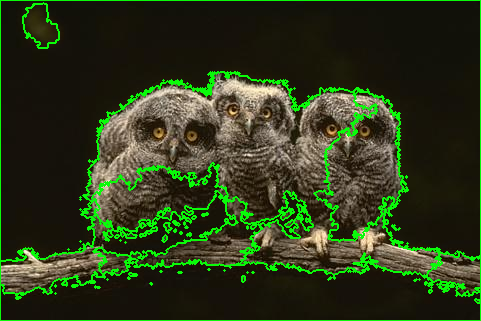
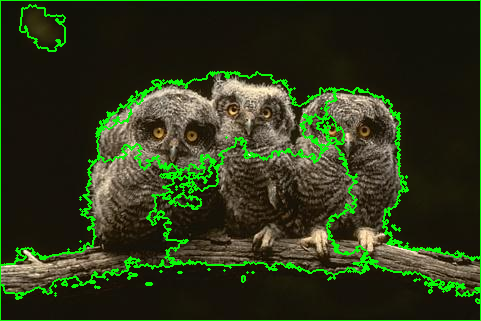
fixed deviation calculation

diff --git a/moea/src/main/java/moea/Segment.java b/moea/src/main/java/moea/Segment.java
@@ -44,7 +44,7 @@ public class Segment {
 
         for(int i = 0; i < pix.getRGB().length; i++){
             this.avgSegColors[i] += pix.getRGB()[i];
-            this.avgSegColors[i] /= this.pixels.size();
+//            this.avgSegColors[i] /= this.pixels.size();
         }
 
         int pc = IntStream.of(pix.getRGB()).sum();
@@ -63,7 +63,7 @@ public class Segment {
         for(Pixel pix : foundThisSegment){
             for(int i = 0; i < pix.getRGB().length; i++){
                 this.avgSegColors[i] += pix.getRGB()[i];
-                this.avgSegColors[i] /= this.pixels.size();
+//                this.avgSegColors[i] /= this.pixels.size();
             }
         }
 
@@ -94,9 +94,8 @@ public class Segment {
     }
 
     public void calculateDeviation(){
-        Pixel centroidPixel = this.pixels.stream().filter(pixel -> pixel.coordinates == centroid).collect(Collectors.toList()).get(0);
         for(Pixel p : pixels){
-            deviation += RGBdistance(centroidPixel, p);
+            deviation += avgRGBdistance(p);
         }
     }
 
@@ -104,4 +103,7 @@ public class Segment {
         return Math.sqrt(Math.pow(p1.getRGB()[0] - p2.getRGB()[0], 2) + Math.pow(p1.getRGB()[1] - p2.getRGB()[1], 2) + Math.pow(p1.getRGB()[2] - p2.getRGB()[2], 2));
     }
 
+    public double avgRGBdistance(Pixel p2){
+        return Math.sqrt(Math.pow(avgSegColors[0]/pixels.size() - p2.getRGB()[0], 2) + Math.pow(avgSegColors[1]/pixels.size() - p2.getRGB()[1], 2) + Math.pow(avgSegColors[2]/pixels.size() - p2.getRGB()[2], 2));
+    }
 }

diff --git a/moea/src/main/java/moea/Chromosome.java b/moea/src/main/java/moea/Chromosome.java
@@ -55,6 +55,7 @@ public class Chromosome {
 
     public void calculateOverallDeviation(){
         for(Segment s : segments){
+            s.calculateDeviation();
             overallDeviation += s.deviation;
         }
     }
